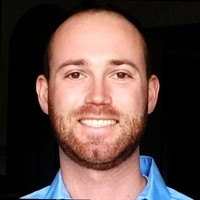
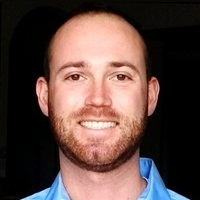
changes bio picture responsiveness

diff --git a/index.html b/index.html
@@ -5,13 +5,17 @@
     <meta charset="UTF-8">
     <meta name="viewport" content="width=device-width, initial-scale=1, shrink-to-fit=no">
     <meta http-equiv="X-UA-Compatible" content="ie=edge">
-    <title>Bootstrap-Portfolio</title>
+    <title>About Me</title>
 
     <!-- Bootstrap Links -->
-    <link rel="stylesheet" href="https://stackpath.bootstrapcdn.com/bootstrap/4.1.1/css/bootstrap.min.css" integrity="sha384-WskhaSGFgHYWDcbwN70/dfYBj47jz9qbsMId/iRN3ewGhXQFZCSftd1LZCfmhktB" crossorigin="anonymous">
-    <script src="https://code.jquery.com/jquery-3.3.1.slim.min.js" integrity="sha384-q8i/X+965DzO0rT7abK41JStQIAqVgRVzpbzo5smXKp4YfRvH+8abtTE1Pi6jizo" crossorigin="anonymous"></script>
-    <script src="https://cdnjs.cloudflare.com/ajax/libs/popper.js/1.14.3/umd/popper.min.js" integrity="sha384-ZMP7rVo3mIykV+2+9J3UJ46jBk0WLaUAdn689aCwoqbBJiSnjAK/l8WvCWPIPm49" crossorigin="anonymous"></script>
-    <script src="https://stackpath.bootstrapcdn.com/bootstrap/4.1.1/js/bootstrap.min.js" integrity="sha384-smHYKdLADwkXOn1EmN1qk/HfnUcbVRZyYmZ4qpPea6sjB/pTJ0euyQp0Mk8ck+5T" crossorigin="anonymous"></script>
+    <link rel="stylesheet" href="https://stackpath.bootstrapcdn.com/bootstrap/4.1.1/css/bootstrap.min.css" integrity="sha384-WskhaSGFgHYWDcbwN70/dfYBj47jz9qbsMId/iRN3ewGhXQFZCSftd1LZCfmhktB"
+        crossorigin="anonymous">
+    <script src="https://code.jquery.com/jquery-3.3.1.slim.min.js" integrity="sha384-q8i/X+965DzO0rT7abK41JStQIAqVgRVzpbzo5smXKp4YfRvH+8abtTE1Pi6jizo"
+        crossorigin="anonymous"></script>
+    <script src="https://cdnjs.cloudflare.com/ajax/libs/popper.js/1.14.3/umd/popper.min.js" integrity="sha384-ZMP7rVo3mIykV+2+9J3UJ46jBk0WLaUAdn689aCwoqbBJiSnjAK/l8WvCWPIPm49"
+        crossorigin="anonymous"></script>
+    <script src="https://stackpath.bootstrapcdn.com/bootstrap/4.1.1/js/bootstrap.min.js" integrity="sha384-smHYKdLADwkXOn1EmN1qk/HfnUcbVRZyYmZ4qpPea6sjB/pTJ0euyQp0Mk8ck+5T"
+        crossorigin="anonymous"></script>
 
     <!-- My style sheet link -->
     <link rel="stylesheet" type="text/css" href="assets/css/styles.css">
@@ -21,10 +25,11 @@
     <a id="nav-top"></a>
     <header>
         <nav class="navbar navbar-expand-sm navbar-dark bg-dark">
-            <a class="navbar-brand" href="index.html"> 
+            <a class="navbar-brand" href="index.html">
                 <h3>Hank Zimmer</h3>
             </a>
-            <button class="navbar-toggler" type="button" data-toggle="collapse" data-target="#navbarSupportedContent" aria-controls="navbarSupportedContent" aria-expanded="false" aria-label="Toggle navigation">
+            <button class="navbar-toggler" type="button" data-toggle="collapse" data-target="#navbarSupportedContent" aria-controls="navbarSupportedContent"
+                aria-expanded="false" aria-label="Toggle navigation">
                 <span class="navbar-toggler-icon"></span>
             </button>
             <div class="collapse navbar-collapse" id="navbarSupportedContent">
@@ -53,12 +58,10 @@
                         </div>
                     </div>
                     <div class="row">
-                        <div class="col-md-3">
-                            <!-- <div class="jumbotron"> -->
-                            <img id="profile_picture" class="img-fluid p-2" src="assets/images/profile_picture.jpg" alt="Bio Picture" />
-                            <!-- </div> -->
+                        <div class="col-12 col-md-3">
+                            <img id="profile_picture" class="img-fluid rounded mx-auto" src="assets/images/profile_picture_small.jpg" alt="Bio Picture" />
                         </div>
-                        <div class="col-md-9">
+                        <div class="col 12 col-md-9">
                             <p>I was born in Colorado Springs, Colorado, and lived in Colorado until the age of 21. I went to
                                 college at the Colorado School of Mines studying Mechanical Engineering. I then moved to
                                 Seattle and worked there for six years as a nuclear engineer, but ultimately decided that

diff --git a/portfolio.html b/portfolio.html
@@ -5,9 +5,15 @@
     <meta charset="UTF-8">
     <meta name="viewport" content="width=device-width, initial-scale=1, shrink-to-fit=no">
     <meta http-equiv="X-UA-Compatible" content="ie=edge">
-    <title>Bootstrap-Portfolio</title>
-    <link rel="stylesheet" href="https://stackpath.bootstrapcdn.com/bootstrap/4.1.1/css/bootstrap.min.css" integrity="sha384-WskhaSGFgHYWDcbwN70/dfYBj47jz9qbsMId/iRN3ewGhXQFZCSftd1LZCfmhktB"
-        crossorigin="anonymous">
+    <title>Portfolio</title>
+
+    <!-- Bootstrap Links -->
+    <link rel="stylesheet" href="https://stackpath.bootstrapcdn.com/bootstrap/4.1.1/css/bootstrap.min.css" integrity="sha384-WskhaSGFgHYWDcbwN70/dfYBj47jz9qbsMId/iRN3ewGhXQFZCSftd1LZCfmhktB" crossorigin="anonymous">
+    <script src="https://code.jquery.com/jquery-3.3.1.slim.min.js" integrity="sha384-q8i/X+965DzO0rT7abK41JStQIAqVgRVzpbzo5smXKp4YfRvH+8abtTE1Pi6jizo" crossorigin="anonymous"></script>
+    <script src="https://cdnjs.cloudflare.com/ajax/libs/popper.js/1.14.3/umd/popper.min.js" integrity="sha384-ZMP7rVo3mIykV+2+9J3UJ46jBk0WLaUAdn689aCwoqbBJiSnjAK/l8WvCWPIPm49" crossorigin="anonymous"></script>
+    <script src="https://stackpath.bootstrapcdn.com/bootstrap/4.1.1/js/bootstrap.min.js" integrity="sha384-smHYKdLADwkXOn1EmN1qk/HfnUcbVRZyYmZ4qpPea6sjB/pTJ0euyQp0Mk8ck+5T" crossorigin="anonymous"></script>
+
+    <!-- My style sheet link -->
     <link rel="stylesheet" type="text/css" href="assets/css/styles.css">
 </head>
 

diff --git a/contact.html b/contact.html
@@ -5,9 +5,15 @@
     <meta charset="UTF-8">
     <meta name="viewport" content="width=device-width, initial-scale=1, shrink-to-fit=no">
     <meta http-equiv="X-UA-Compatible" content="ie=edge">
-    <title>Bootstrap-Portfolio</title>
-    <link rel="stylesheet" href="https://stackpath.bootstrapcdn.com/bootstrap/4.1.1/css/bootstrap.min.css" integrity="sha384-WskhaSGFgHYWDcbwN70/dfYBj47jz9qbsMId/iRN3ewGhXQFZCSftd1LZCfmhktB"
-        crossorigin="anonymous">
+    <title>Contact</title>
+
+    <!-- Bootstrap Links -->
+    <link rel="stylesheet" href="https://stackpath.bootstrapcdn.com/bootstrap/4.1.1/css/bootstrap.min.css" integrity="sha384-WskhaSGFgHYWDcbwN70/dfYBj47jz9qbsMId/iRN3ewGhXQFZCSftd1LZCfmhktB" crossorigin="anonymous">
+    <script src="https://code.jquery.com/jquery-3.3.1.slim.min.js" integrity="sha384-q8i/X+965DzO0rT7abK41JStQIAqVgRVzpbzo5smXKp4YfRvH+8abtTE1Pi6jizo" crossorigin="anonymous"></script>
+    <script src="https://cdnjs.cloudflare.com/ajax/libs/popper.js/1.14.3/umd/popper.min.js" integrity="sha384-ZMP7rVo3mIykV+2+9J3UJ46jBk0WLaUAdn689aCwoqbBJiSnjAK/l8WvCWPIPm49" crossorigin="anonymous"></script>
+    <script src="https://stackpath.bootstrapcdn.com/bootstrap/4.1.1/js/bootstrap.min.js" integrity="sha384-smHYKdLADwkXOn1EmN1qk/HfnUcbVRZyYmZ4qpPea6sjB/pTJ0euyQp0Mk8ck+5T" crossorigin="anonymous"></script>
+
+    <!-- My style sheet link -->
     <link rel="stylesheet" type="text/css" href="assets/css/styles.css">
 </head>
 

diff --git a/assets/css/styles.css b/assets/css/styles.css
@@ -16,9 +16,6 @@ html {
     background-color: #f5f5f5;
     text-align: center;
   }
-  /* .nav-link{
-      font-size:.75rem;
-  } */
   .backToTopLink{
       color: rgb(0, 0, 0);
   }
@@ -26,4 +23,8 @@ html {
       color: rgb(74, 85, 94);
       text-decoration: none;
   }
+  .card-text {
+      text-align: center;
+  }
+
 
